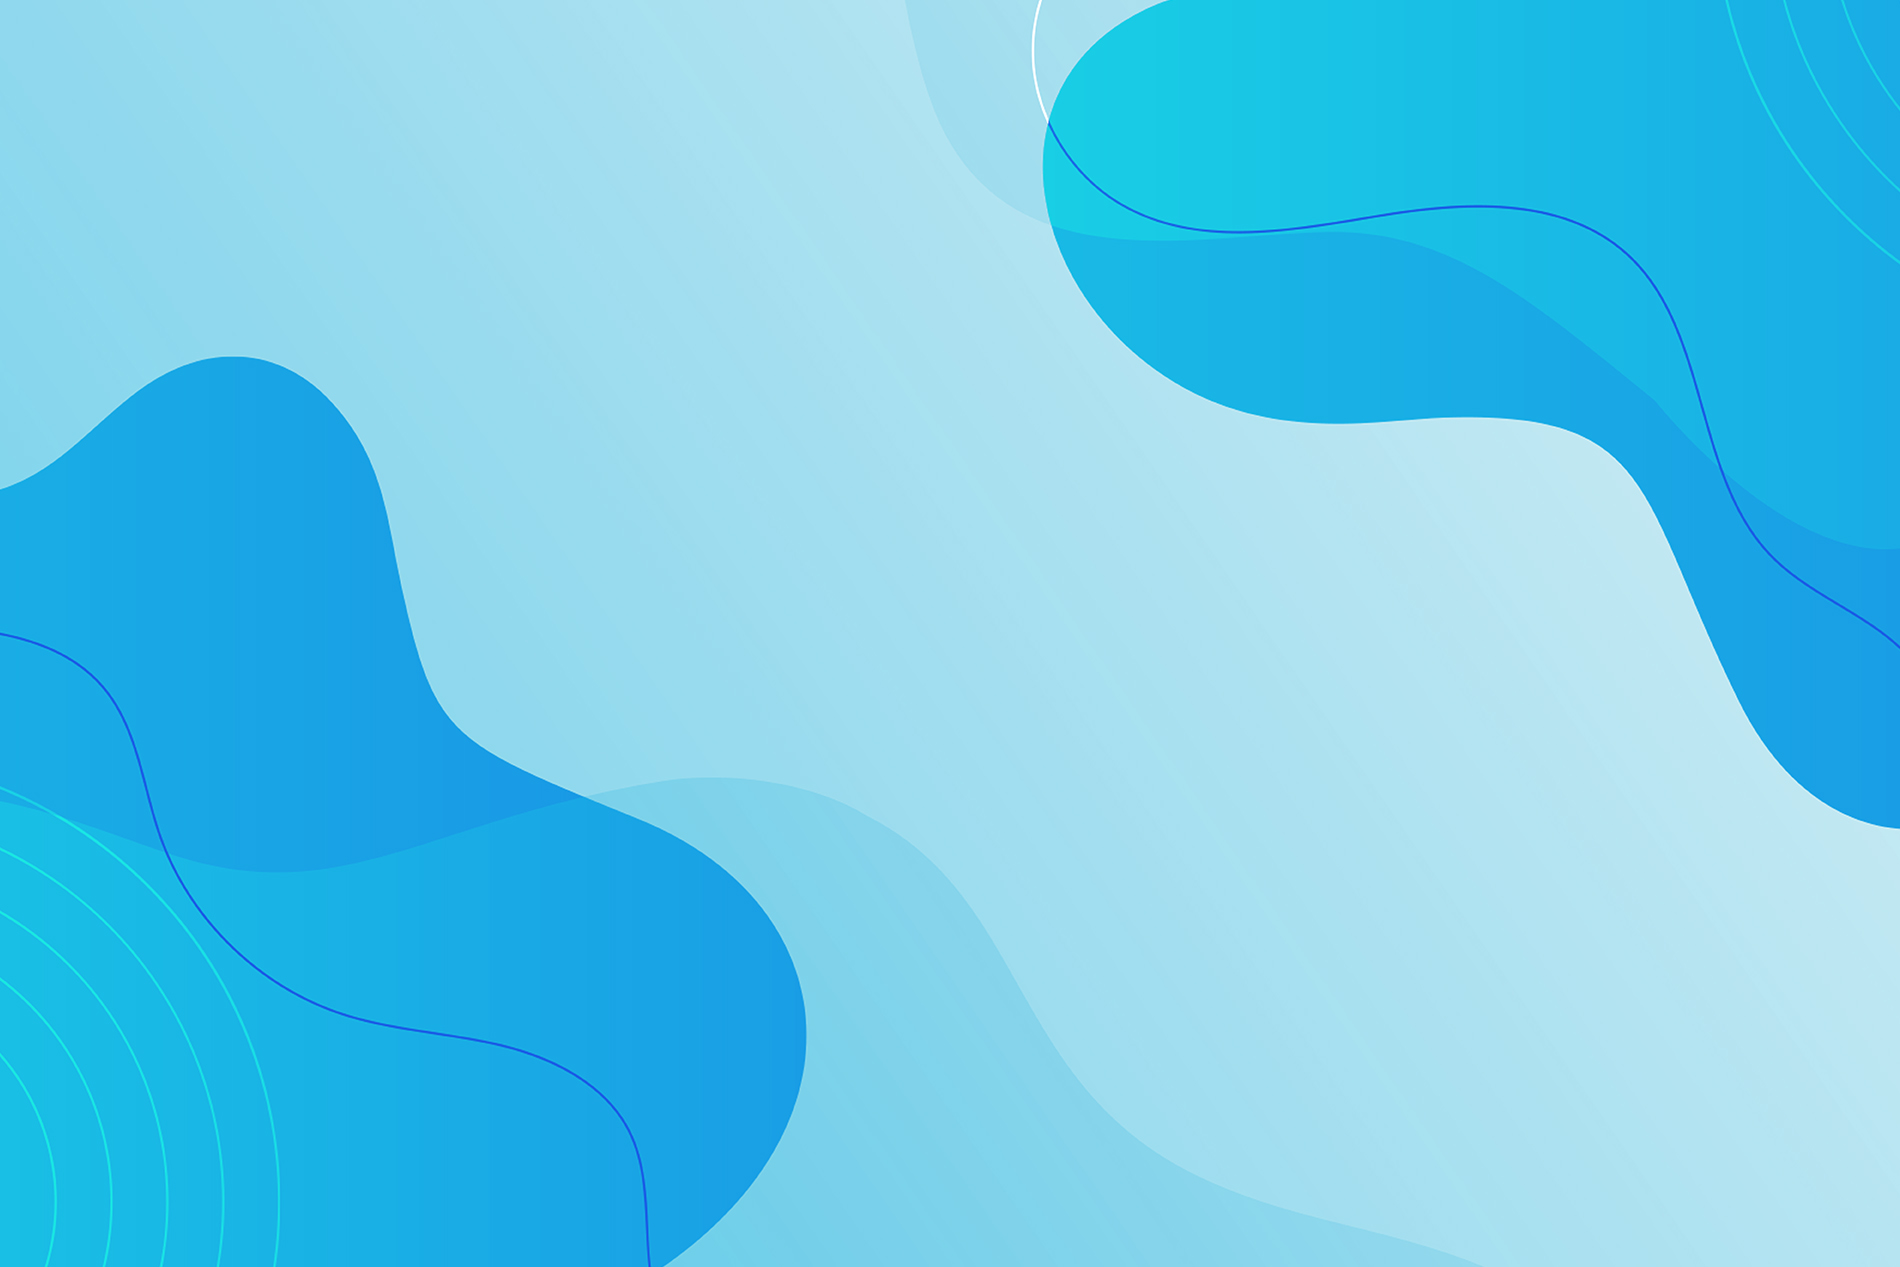
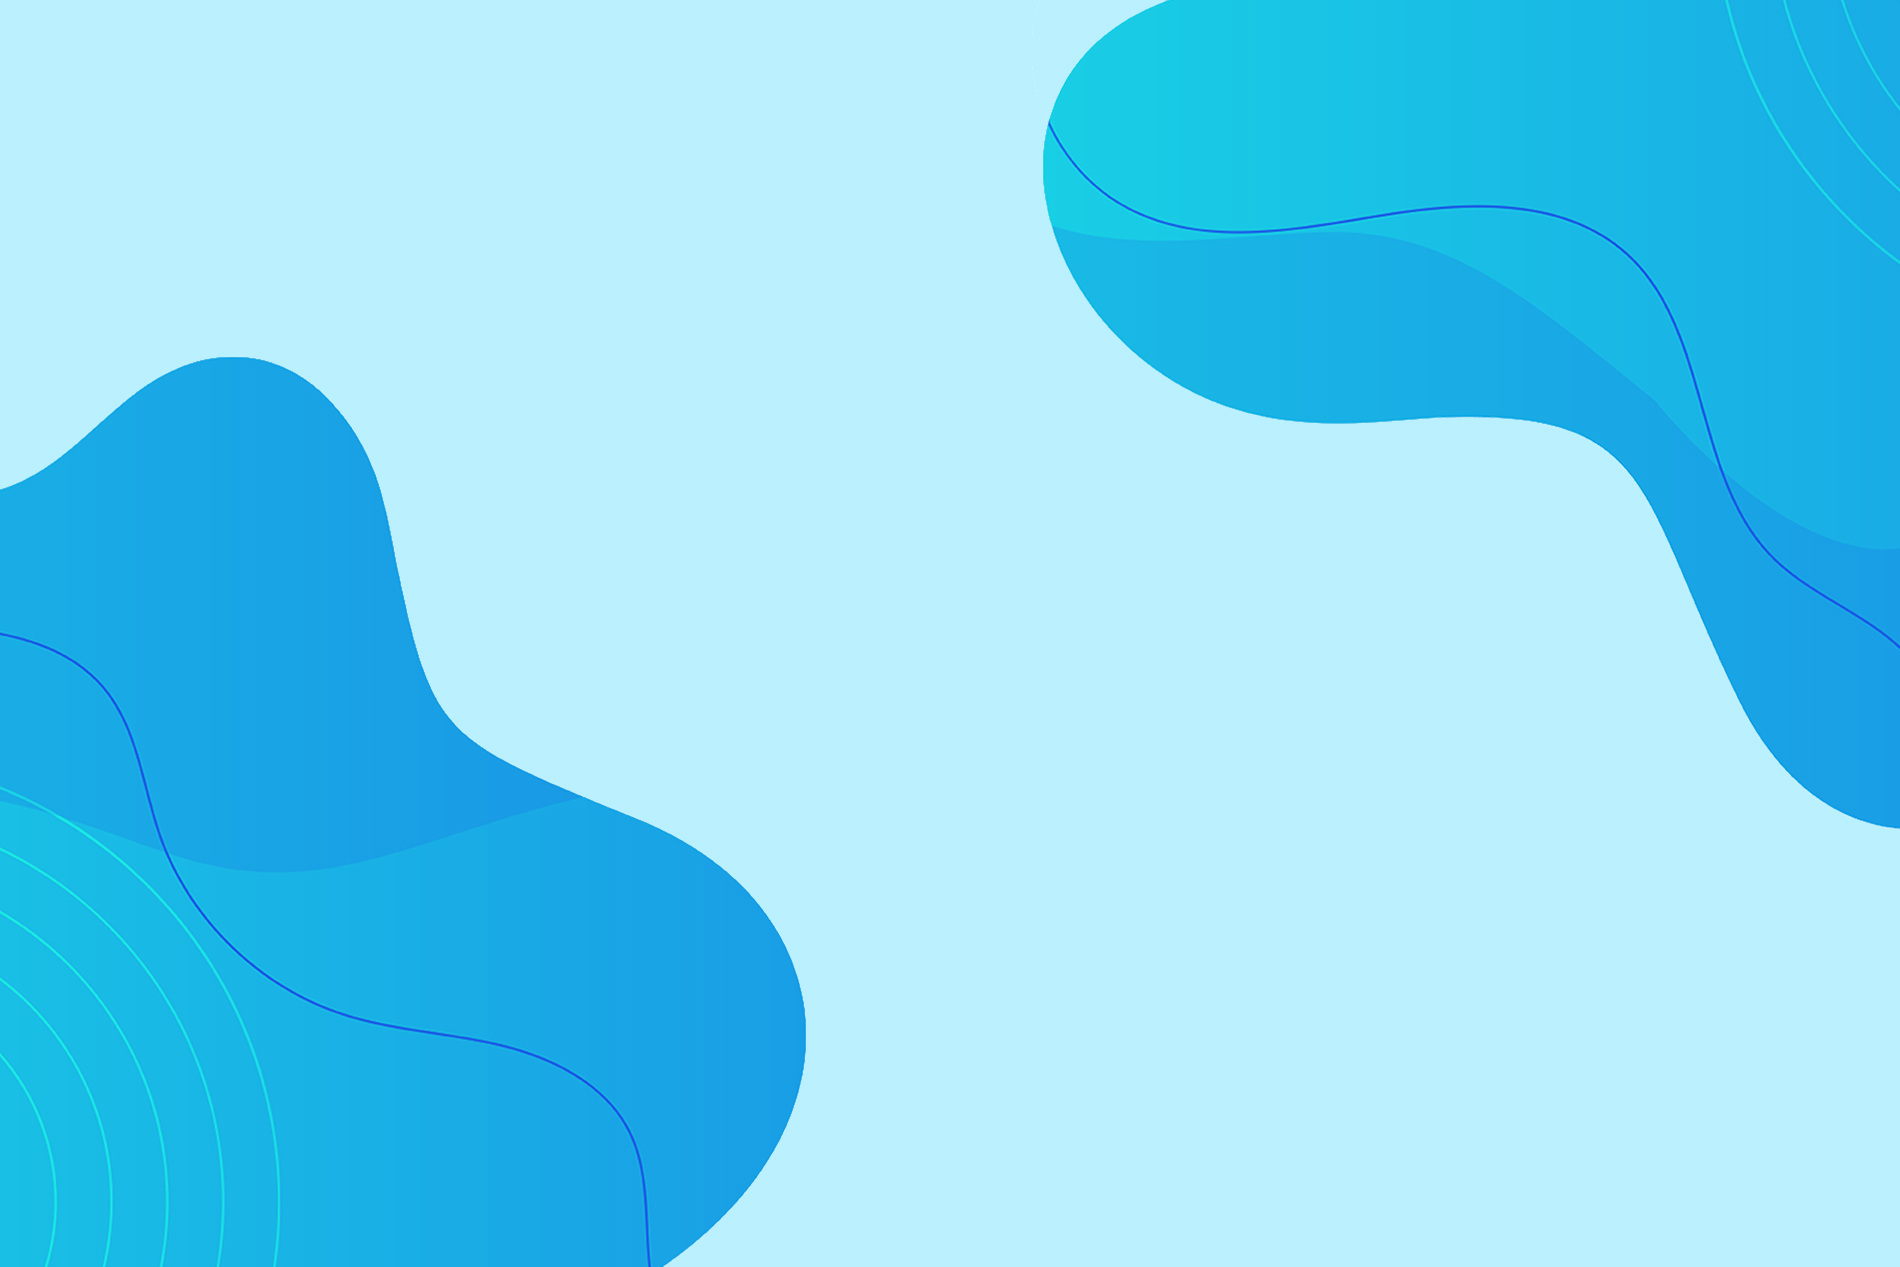
yes

Changed region(s): [[0.0, 0.0, 0.7763, 1.0], [0.4658, 0.0, 0.5589, 0.1847]]

diff --git a/index.html b/index.html
@@ -87,7 +87,7 @@
 
   
      
-    <div class="site-blocks-cover overlay" style="background-image: url(images/hero_2.jpg);" data-aos="fade" id="home-section">
+    <div class="site-blocks-cover overlay" style="background-image: url(images/hero_2.png);" data-aos="fade" id="home-section">
 
       <div class="container">
         <div class="row align-items-center justify-content-center">
@@ -908,7 +908,7 @@
           <div class="col-md-4 text-center">
             <p class="mb-4">
               <span class="icon-phone d-block h4 text-primary"></span>
-              <a href="#">+1 9503182793</a>
+              <a href="#">+91 9503182793</a>
             </p>
           </div>
           <div class="col-md-4 text-center">
